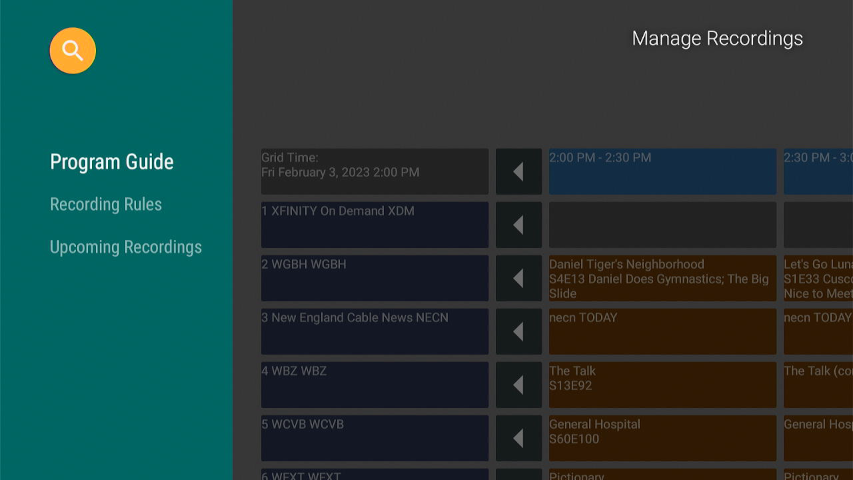
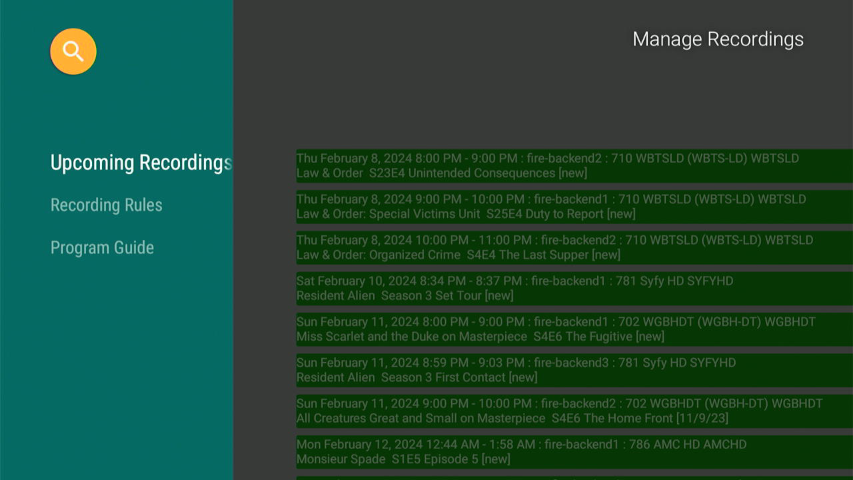
Update Documentation

diff --git a/README.md b/README.md
@@ -71,12 +71,14 @@ Leanfront can be installed from the Google play store or the Amazon store, depen
 
 <details><summary>Recently Viewed List</summary>
 
-The top line of the main screen shows "Recently Viewed" items if that option is selected in Settings. This helps you keep track of what you are watching. Recommended Settings::
+The top line of the main screen shows "Recently Viewed" items if that option is selected in Settings. This helps you keep track of what you are watching.
+Recommended Settings:
+
 - Enable recently viewed list in settings.
 - Enable deleted and watched items in the recent list.
 - Enable "Trim recently viewed list" to only see the latest episode of each series you are watching.
 - Disable deleted and watched items in the "related" list.
-- In mythfrontend, set the deletion delay for deleted shows to 7 days.
+- In mythfrontend, set the deletion delay for deleted shows to 7 days or longer.
 
 Now, for example, if you watched and deleted an episode yesterday, the deleted episode shows at the front of the recent list. Select that episode from the recent list. Go down in the details screen to the related list. You will see unwatched, undeleted episodes of the series and you can select one to play.
 
@@ -89,7 +91,7 @@ Now, for example, if you watched and deleted an episode yesterday, the deleted e
 - The LiveTV group shows recordings already made from Live TV as well as channels available to watch live.
 - On the top-level screen only, there is a list of recently viewed items. This can be customized in settings to select how far back it goes or to disable it entirely.
 - There is a row for "All" at the top.
-- If you have Videos in the Video storage group on the MythTV backend, There is a row at the bottom showing videos organized by directory. Selecting that row and pressing enter opens the [Videos Screen](#videos-screen)
+- If you have Videos in the Video storage group on the MythTV backend, there is a row at the bottom showing videos organized by directory. Selecting that row and pressing enter opens the [Videos Screen](#videos-screen)
 - There is a row labeled "Tools" at the bottom. There are various options available there.
 - Indicators next to recordings show 🗑 for deleted, 👁 for Watched, 💥 for damaged.
 
@@ -118,7 +120,7 @@ Now, for example, if you watched and deleted an episode yesterday, the deleted e
 ## Related Videos
 ![](ScreenShots/RelatedVideos.png)
 
-A horizontal list of other episodes of the series is shown, If you have selected a recording from the main page and you actually want to see a different episode of the series, you can find it here.
+See this by pressing Down on the Detail Screen. A horizontal list of other episodes of the series is shown, If you have selected a recording from the main page and you actually want to see a different episode of the series, you can find it here.
 
 ## Videos Screen
 ![](ScreenShots/Videos.png)
@@ -136,7 +138,7 @@ This operation is not recursive. If there are subdirectories in a video director
 ## Playback Screen
 ![](ScreenShots/Playback.png)
 
-- During playback you can use the Menu button or a long press on enter to show a menu of actions. A normal press of Enter shows [playback controls](#playback-controls) with icons for actions.
+- During playback you can use the Menu button to show a menu of actions. A normal press of Enter shows [playback controls](#playback-controls) with icons for actions. The menu can be selected from an icon here if you do not have a Menu button.
 - Commercial skip is supported if the recording or video has been flagged in MythTV. Skipping with arrow keys and fast forward/rewind keys is supported. These can be customized in [settings](#settings).
 - For more information see [Playback](#playback).
 
@@ -165,7 +167,7 @@ Select the magnifying glass at the top left hand side of most screens, and press
 At the bottom of each list screen is a row named "Tools", that provides application-wide tools.
 
 - [Settings](#settings) provides for customization of many features of leanfront.
-- [Refresh Lists](#refresh-lists) refreshes the recording and video lists from the backend. This is rarely needed, as leanfront automatically keeps up to date with the backend.
+- [Refresh Lists](#refresh-lists) refreshes the recording and video lists from the backend. This is rarely needed, as leanfront automatically keeps up to date with the backend. The frequency with which it is updated can be set in [Advanced Settings](#advanced).
 - [Backend Status](#backend-status) shows general information about the backend.
 - [Manage Recordings](#manage-recordings) Shows the program schedule and provides the ability to schedule recordings.
 
@@ -201,9 +203,20 @@ Backend status can be scrolled down using arrow keys.
 ![](ScreenShots/Manage.png)
 
 There are three rows available.
-- [Program Guide](#program-guide)
+- [Upcoming Recordings](#upcoming-recordings).
 - [Recording Rules](#recording-rules)
-- [Upcoming Recordings](#upcoming-recordings). 
+- [Program Guide](#program-guide)
+
+## Upcoming Recordings
+![](ScreenShots/Upcoming.png)
+
+[Edit](#schedule-recording) a recording rule by selecting an upcoming recording and pressing Enter.
+
+## Recording Rules
+![](ScreenShots/Rules.png)
+
+- [Edit](#schedule-recording) an existing rule by selecting it and pressing Enter.
+- Create a new manual recording by selecting *Schedule New Recording* and pressing Enter.
 
 ## Program Guide
 ![](ScreenShots/Guide.png)
@@ -212,17 +225,6 @@ There are three rows available.
 - Jump to a desired date and time by pressing enter on any of the date or time cells and selecting a date and time.
 - [Schedule](#schedule-recording) a recording by pressing enter on a program cell.
 - Move to the next or prior time slot of guide data by pressing enter on any of the arrow cells.
-
-## Recording Rules
-![](ScreenShots/Rules.png)
-
-- [Edit](#schedule-recording) an existing rule by selecting it and pressing Enter.
-- Create a new manual recording by selecting *Schedule New Recording* and pressing Enter.
-
-## Upcoming Recordings
-![](ScreenShots/Upcoming.png)
-
-[Edit](#schedule-recording) a recording rule by selecting an upcoming recording and pressing Enter. 
 
 ## Schedule Recording
 ![](ScreenShots/Schedule.png)
@@ -255,7 +257,7 @@ You need an Android TV device, which can be a [Nvidia Shield](https://www.nvidia
 
 ### Amazon Fire TV
 If you have an Amazon Fire TV, Fire Stick or Fire Cube, you can install from Amazon App store.
-For a new installation, just press the microphone button on your remote and say "MythTV". Alternatively, log on to amazon.com, serach for MythTV or leanfronte, and request it to be installed to your device.
+For a new installation, just press the microphone button on your remote and say "MythTV". Alternatively, log on to amazon.com, search for MythTV or leanfronte, and request it to be installed to your device.
 
 If you already have leanfront installed by downloading from orangedox, to install from the app store you will have to first uninstall it.
 
@@ -319,7 +321,7 @@ Leanfront is based on the sample [Videos By Google](https://github.com/android/t
 - The *Master Backend Override* MythTV setting is supported. Playback will be from the master backend even for recordings made on a slave. However the Preview image still uses the slave backend, so it will not show if the slave is down.
 - Adjustment of Audio Sync in case a recording has a lip-sync problem.
 - Support for touch screen devices is usable, although it is not perfect.
-- Metadata lookup when scheduling recordings supports tvmaze and tmdb.
+- Metadata lookup when scheduling recordings supports the tv db, tvmaze and tmdb.
 - Note that some phones do not support MPEG-2 playback. There may be some android TV devices that do not support MPEG-2. NVidia shield supports MPEG-2 although there is a pixelation bug on some channels. Fire stick models since 2018 support MPEG-2. See https://developer.amazon.com/docs/fire-tv/device-specifications-fire-tv-streaming-media-player.html?v=ftvstick4k and select your model for full details.
 - Supports playback groups, allowing different values per playback group.
 - Now supports MythTV commercial breaks and cut list.
@@ -334,6 +336,7 @@ You can see a list of changes in each version by looking at the commit list in g
 - Pressing Back dismisses the OSD controls. Pressing Up a couple of times will also dismiss them. This is better because you will not accidentally end playback if you press Up when they are already timing out.
 - Left and right arrow will skip back and forward. Holding down the arrow moves quickly through the video. The number of seconds for forward and back skip are customizable in Settings.
 - Up and down arrow can be used for bigger jumps by setting a jump interval in settings. I recommend against using this because it interferes with navigation in the OSD. You can move very quickly through playback by holding down left or right arrow, so jump is not really needed. Jumping can be disabled by setting blank or 0 in the jump interval in Settings. When jumping with up and down arrows, the arrow buttons are disabled for up/down use in the OSD, and this can cause confusion.
+- YOu can customize the up/down, left/right and ff/rew buttons to skip, jump or commercial skip.
 - If you are playing a recording that is in progress of being recorded or a LiveTV channel, the behavior will be as follows. When you start watching, the OSD will show the duration being as much as has been recorded at that time. This duration will remain at that figure as you continue watching. Once you get to that point in the recording, there is a slight pause, then playback continues, with duration shown as "---", which means unknown duration. While in this state, if you press forward or back skip, it will revert to showing the amount recorded to date, and perform the forward or back skip requested. When you eventually get to the end as it was when you did the skip operation, it will revert to duration showing as "---" while playback continues.
 
 ### Frame Rate Synchronization
@@ -370,7 +373,7 @@ You can skip forward and backward to the next or prior commercial break. This is
 
 - You can set left/right, up/down, or rew/ff to commercial skip instead of their normal usage.
 - The Playback Control Icons |< and >| will skip back and forward to the next commercial break. After the last break they skip to the prior or next episode in the series, as they have always done.
-- If you have an advanced remote, the "Skip back" and "Skip next" buttons perform a commercial skip, while the "Step back" and "STep forward" buttons perform the "jump" operation of 5 minutes at a time or whatever value you set.
+- If you have an advanced remote, the "Skip back" and "Skip next" buttons perform a commercial skip, while the "Step back" and "Step forward" buttons perform the "jump" operation of 5 minutes at a time or whatever value you set.
 
 In the settings there are adjustments to start and end position that can be set. Setting a negative value means that it will skip that number of seconds early, setting a positive value will skip that number of seconds late. To make sure that absolutely no commercial is shown, you can make the skip larger by setting a negative value for start adjustment and a positive value for end adjustment. However you could miss a second or two of actual show. In the opposite situation, if you are unsure whether commercial skip works correctly, you can make the skip shorter by setting a positive value in the start adjustment and a negative value in the end adjustment. Then you will see a few seconds of commercial at the start and end of the break, so that you can be sure it is only skipping commercial and not skipping part of the show.
 
